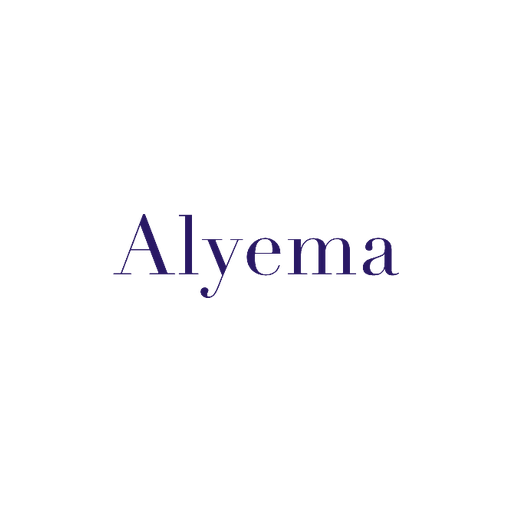
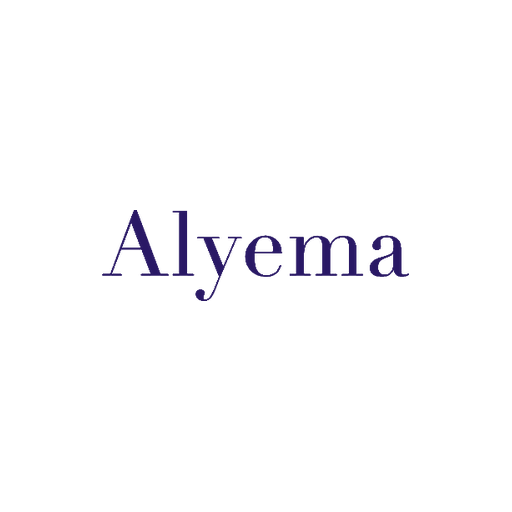
feat: update workspace

Changed region(s): [[0.1875, 0.4062, 0.8125, 0.5938], [0.5, 0.5312, 0.5312, 0.5625]]

diff --git a/index.html b/index.html
@@ -19,7 +19,7 @@
   <link rel="preconnect" href="https://fonts.googleapis.com">
   <link rel="preconnect" href="https://fonts.gstatic.com" crossorigin>
   <link href="https://fonts.googleapis.com/css2?family=Cinzel:wght@400;600;700&family=Instrument+Serif:ital@0;1&family=Barlow:wght@300;400;500;600&family=Inter:wght@300;400;500;600&display=swap" rel="stylesheet">
-  <link rel="stylesheet" href="styles.css?v=20261026bootsplash01">
+  <link rel="stylesheet" href="styles.css?v=20261026bootsplash02">
   <style id="luminara-styles">
 /* ════════════════════════════════════════════════════════════════
    Alyema — Multi-Theme Design System
@@ -3320,8 +3320,8 @@ html.device-desktop #tab-goals .form-card, html.device-desktop #tab-future .form
   <!-- 启动画面：纯白底 + 深靛蓝衬线字标，加载完成后淡出（样式内联，保证首帧就能画出来） -->
   <div id="bootSplash" aria-hidden="true"><span>Alyema</span></div>
   <style>
-    #bootSplash{position:fixed;inset:0;z-index:99999;background:#fff;display:flex;align-items:center;justify-content:center;transition:opacity .45s ease}
-    #bootSplash span{font-family:'Instrument Serif',Georgia,'Times New Roman',serif;font-size:clamp(34px,11vw,56px);line-height:1;color:#291865;letter-spacing:.005em}
+    #bootSplash{position:fixed;inset:0;z-index:99999;background:#fff;display:flex;align-items:center;justify-content:center;padding-bottom:20vh;transition:opacity .45s ease}
+    #bootSplash span{font-family:'Instrument Serif',Georgia,'Times New Roman',serif;font-size:clamp(32px,13.2vw,84px);line-height:1;color:#291865;letter-spacing:.005em}
     #bootSplash.is-hidden{opacity:0;pointer-events:none}
   </style>
   <canvas id="starfield"></canvas>
@@ -4959,7 +4959,7 @@ html.device-desktop #tab-goals .form-card, html.device-desktop #tab-future .form
 
   </div>
 
-  <script src="app.js?v=20261026bootsplash01" defer></script>
+  <script src="app.js?v=20261026bootsplash02" defer></script>
 
   <!-- 空输入轻提示：点击空输入的生成按钮时，在按钮旁弹出，3 秒自动消失，点击可关闭 -->
   <div id="inputNudge" class="input-nudge hidden" role="status" aria-live="polite">

diff --git a/public/index.html b/public/index.html
@@ -19,7 +19,7 @@
   <link rel="preconnect" href="https://fonts.googleapis.com">
   <link rel="preconnect" href="https://fonts.gstatic.com" crossorigin>
   <link href="https://fonts.googleapis.com/css2?family=Cinzel:wght@400;600;700&family=Instrument+Serif:ital@0;1&family=Barlow:wght@300;400;500;600&family=Inter:wght@300;400;500;600&display=swap" rel="stylesheet">
-  <link rel="stylesheet" href="styles.css?v=20261026bootsplash01">
+  <link rel="stylesheet" href="styles.css?v=20261026bootsplash02">
   <style id="luminara-styles">
 /* ════════════════════════════════════════════════════════════════
    Alyema — Multi-Theme Design System
@@ -3320,8 +3320,8 @@ html.device-desktop #tab-goals .form-card, html.device-desktop #tab-future .form
   <!-- 启动画面：纯白底 + 深靛蓝衬线字标，加载完成后淡出（样式内联，保证首帧就能画出来） -->
   <div id="bootSplash" aria-hidden="true"><span>Alyema</span></div>
   <style>
-    #bootSplash{position:fixed;inset:0;z-index:99999;background:#fff;display:flex;align-items:center;justify-content:center;transition:opacity .45s ease}
-    #bootSplash span{font-family:'Instrument Serif',Georgia,'Times New Roman',serif;font-size:clamp(34px,11vw,56px);line-height:1;color:#291865;letter-spacing:.005em}
+    #bootSplash{position:fixed;inset:0;z-index:99999;background:#fff;display:flex;align-items:center;justify-content:center;padding-bottom:20vh;transition:opacity .45s ease}
+    #bootSplash span{font-family:'Instrument Serif',Georgia,'Times New Roman',serif;font-size:clamp(32px,13.2vw,84px);line-height:1;color:#291865;letter-spacing:.005em}
     #bootSplash.is-hidden{opacity:0;pointer-events:none}
   </style>
   <canvas id="starfield"></canvas>
@@ -4959,7 +4959,7 @@ html.device-desktop #tab-goals .form-card, html.device-desktop #tab-future .form
 
   </div>
 
-  <script src="app.js?v=20261026bootsplash01" defer></script>
+  <script src="app.js?v=20261026bootsplash02" defer></script>
 
   <!-- 空输入轻提示：点击空输入的生成按钮时，在按钮旁弹出，3 秒自动消失，点击可关闭 -->
   <div id="inputNudge" class="input-nudge hidden" role="status" aria-live="polite">
